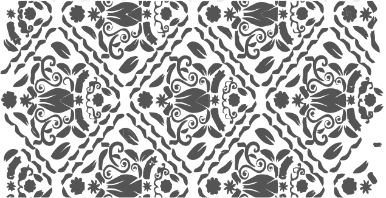
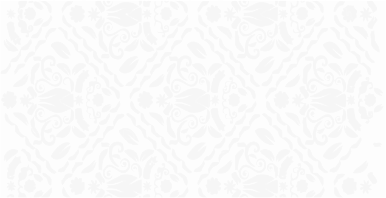
belum fix

diff --git a/style.css b/style.css
@@ -34,9 +34,7 @@ body
 #mainnav .navbar-brand:focus
 {
 
-	color: #F7B100; 
-/* 	background: transparent; */
-	color : #18BC9C;
+	color: #F7B100; /*warna orange lebih gelep*/
 }
 /* memberi jarak spasi pada navbar nav */
 #mainnav .navbar-nav {
@@ -53,15 +51,13 @@ body
 /* menambahkan warna hover ketika mouse melewati/melihat item */
 #mainnav .navbar-nav li.nav-item a.nav-link:hover 
 {
-	/*background: white;*/
-	/* color: #FBC02D; */
-	background: #FBC02D;
+	background: #FBC02D; /*warna orange*/
 	outline: none; 
 }
 /* menambahkan on click/focus pada item navbar */
 #mainnav .navbar-nav li.nav-item a.nav-link:focus 
 {
-	background: #18BC9C;
+	background: #F7B100; /*warna orange lebih gelep*/
 }
 
 /* memberi warna pada item toggler */
@@ -75,13 +71,13 @@ body
 
 #mainnav .navbar-toggle:hover 
 {
-	color: #FBC02D;
+	color: #FBC02D; /*warna orange*/
 	background: transparent;
-	border-color: #FBC02D;
+	border-color: #FBC02D; /*warna orange*/
 }
 #mainnav .navbar-toggle:focus 
 {
-	color: #18BC9C;
+	color: #FBC02D; /*warna orange*/
 	border-color: white;
 }
 
@@ -106,6 +102,16 @@ body
   padding-top: 150px;
 }
 
+.garis2
+{
+  border : 0;
+  height: 2px;
+  background-color: white;
+  /*background-image: linear-gradient(to right,rgba(255,255,255,0),rgba(255,255,255,0.75),rgba(255,255,255,0));*/
+  max-width: 50px;
+  /* margin: 25px auto 30px; */
+  /* padding: 0; */
+}
 
 #profile-picture {
   padding-top: 10px;
@@ -128,15 +134,24 @@ body
   padding-top : 70px;
   background-size: cover;
   /* background-color: #18BC9C; */
-  background-image: url(assets/img/logo/pattern1.png);
+  background-image: url(assets/img/pattern.png);
 }
 
 #tabcontact {
-  padding-top : 50px; 
+  padding-top : 70px; 
   background-size: cover;
-  background-image: url(assets/img/logo/pattern1.png);
+  background-image: url(assets/img/bg_home.jpg);
   height: 750px;
 }
+
+#tcontact {
+  color: white;
+}
+
+.control-group {
+  color: white;
+}
+
 #tabongoingproject{
     /* background-image: url(assets/img/logo/pattern1.png); */
 }
@@ -144,14 +159,14 @@ body
   background-size: cover;
   padding-top: 30px;
   padding-bottom: 60px;
-  background-image: url(assets/img/logo/pattern1.png);
+  background-image: url(assets/img/pattern.png);
 }
 
 .box-light {
     padding-top: 30px;
     padding-right: 20px;
     padding-left: 20px;
-    background-color: #00AA99;
+    background-color: #FBC02D; /*warna orange*/
     border-radius: 3px;
 }
 
@@ -160,7 +175,7 @@ body
     padding-right: 20px;
     padding-left: 20px;
     padding-bottom: 20px;
-    background-color: #00AA99;
+    background-color: #FBC02D; /*warna orange*/
     color: #fff !important;
     border-radius: 3px;
 }
@@ -170,7 +185,7 @@ body
     padding-right: 5px;
     padding-left: 5px;
     padding-bottom: 5px;
-    background-color: #00AA99;
+    background-color: #FBC02D; /*warna orange*/
     border-radius: 3px;
     color: #fff !important;
 }
@@ -180,7 +195,7 @@ body
     padding-right: 5px;
     padding-left: 5px;
     padding-bottom: 5px;
-    background-color: #484443;
+    background-color: white;
     border-radius: 3px;
     color: #fff !important;
 }
@@ -191,7 +206,7 @@ body
 }
 
 .round-xlarge {
-    background-color: #00AA99;
+    background-color: #FBC02D;
     border-radius: 20px;
     height: 12px;
     margin-bottom: 0px;
@@ -331,12 +346,12 @@ footer {
     }
 
     .tombol:hover{
-      color: blue;
+      color: #FBC02D;
       font-weight: bolder;
     }
 
     .title {
-      font-family: cursive;
+      font-family: 'ubuntu', sans-serif;
       text-align: center;
       color: white;
       font-weight: bolder;
@@ -356,7 +371,7 @@ footer {
     }
 
     .buttonAbout {
-      background-color: #18BC9C;
+      background-color: #FBC02D;
     }
 
     .carousel-inner > .item > img,
@@ -364,5 +379,3 @@ footer {
       width: 70%;
       margin: auto;
   }
-
-

diff --git a/index.html b/index.html
@@ -310,7 +310,7 @@
 		<div id="tabcontact">
 			<div class="container">
 				<h2 class="text-center" id="tcontact">CONTACT US</h2>
-		    	<hr>
+		    	<hr class="garis2">
 
 		        <div class="row">
 		          	<div class="col-md-4 col-md-offset-4 mx-auto">
